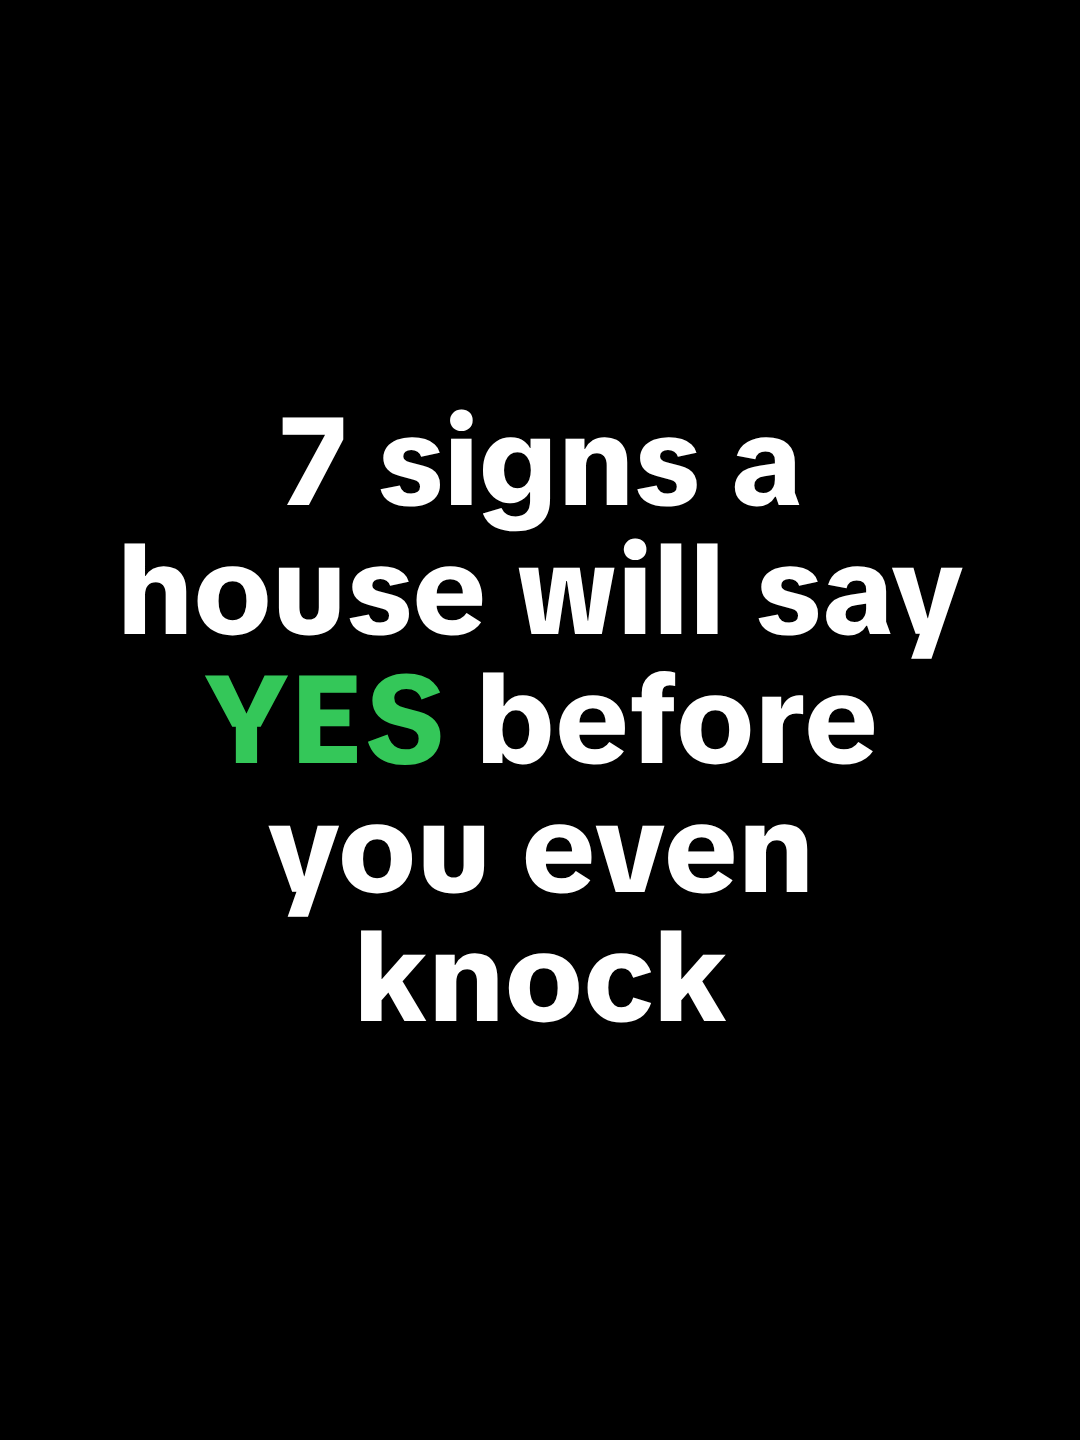
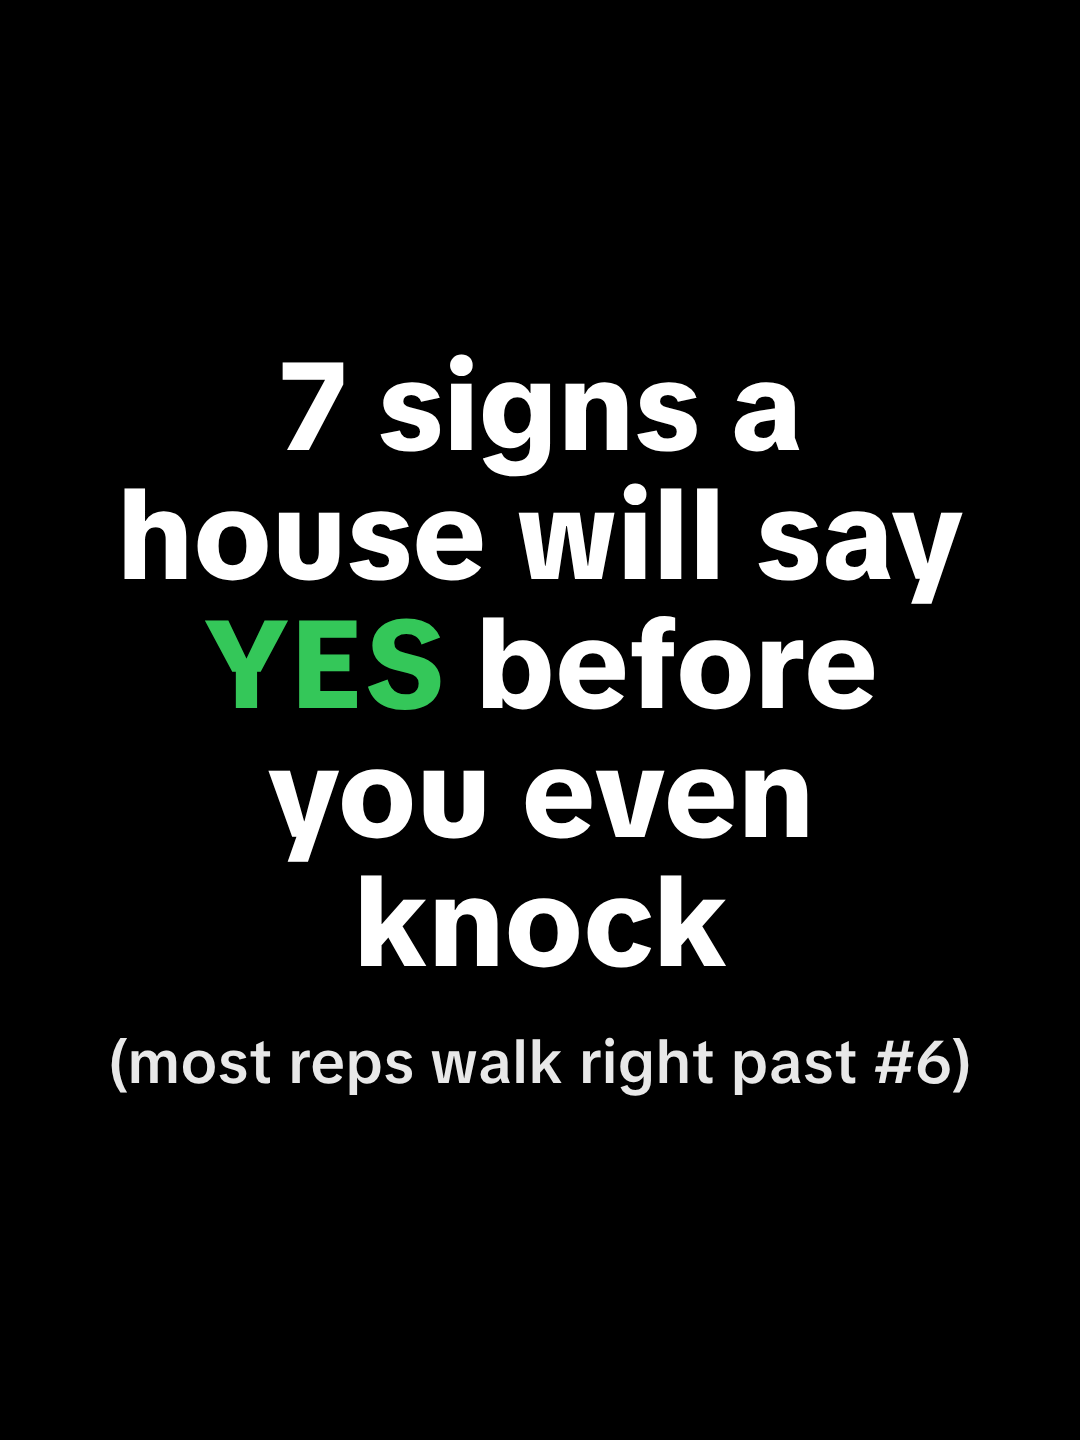
playbook: bracketed curiosity subline on carousel hooks (F65)
Claude-Session: https://claude.ai/code/session_01EVxDagMumu1dzbEEzpRUBn

Changed region(s): [[0.0917, 0.25, 0.9167, 0.7812]]

diff --git a/video_research/content_kit/edits/signs_slides/build.js b/video_research/content_kit/edits/signs_slides/build.js
@@ -10,7 +10,7 @@ const SIGNS = [
 ];
 (async () => { const b = await chromium.launch(); const p = await b.newPage({ viewport: { width: 1080, height: 1440 } });
   const go = async (file, q, out) => { await p.goto('file://' + path.resolve(file) + '?' + q); await p.evaluate(() => document.fonts.ready); await p.waitForTimeout(250); await p.screenshot({ path: out }); };
-  await go('textslide.html', new URLSearchParams({ html: '<div class="h">7 signs a house will say <b>YES</b> before you even knock</div>' }), 'slide1.png');
+  await go('textslide.html', new URLSearchParams({ html: '<div class="h">7 signs a house will say <b>YES</b> before you even knock</div><div class="s">(most reps walk right past #6)</div>' }), 'slide1.png');
   for (let i = 0; i < 7; i++) { const q = new URLSearchParams({ img: `p${i + 1}.png`, h: SIGNS[i][0] }); SIGNS[i][1].forEach(x => q.append('b', x)); await go('tool2.html', q, `slide${i + 2}.png`); }
   await go('textslide.html', new URLSearchParams({ html: '<div class="h">Which sign did I miss?</div><div class="s">Save this for your next shift</div><div class="s2">Follow for more door-to-door tips</div>' }), 'slide9.png');
   await b.close(); })();

diff --git a/video_research/edit_playbook/FEEDBACK_LOG.md b/video_research/edit_playbook/FEEDBACK_LOG.md
@@ -282,6 +282,10 @@ Append-only. Newest entries at the bottom. Each entry: ID, date, video/version, 
 - Research (vendor studies, no platform data): on feed posts/carousels, 126-800 character captions beat very short ones; past ~800 characters reach dropped (PostPlanify, 4,408 posts, 2026). On Reels length barely mattered. Meta lists time spent on a post as a Feed signal.
 - Rule: carousel captions 500-800 characters, hook in the first ~125 characters (what shows before "more"), one useful line per slide, then save line, comment trigger, follow line, max 5 hashtags. Reel captions stay short.
 
+
+**F65** (2026-11-25, signs slideshow hook). Sent a reference (big hook + "(I bet you've used at least one this week!)"): "I want the sub headers in brackets, lower case, semi counter intuitive." Pop-up: "(most reps walk right past #6)"; keep the black text-only look.
+- Rule: carousel hooks get a bracketed, lowercase subline under the headline that opens a curiosity gap pointing to a specific slide or makes it personal ("most reps walk right past #6"). It must be true to the content.
+
 ## Shipped
 - d2d_3_ways_close_rate_v4b.mp4 (1-2-3 order). Shipped 2026-11-21. Superseded: it had A/V drift (F15).
 - d2d_3_ways_123_order_FINAL.mp4 and d2d_3_ways_giftcard_first_FINAL.mp4. Shipped 2026-11-21, both QA PASS. Open: the qualifying questions and gift card business names are placeholders.
